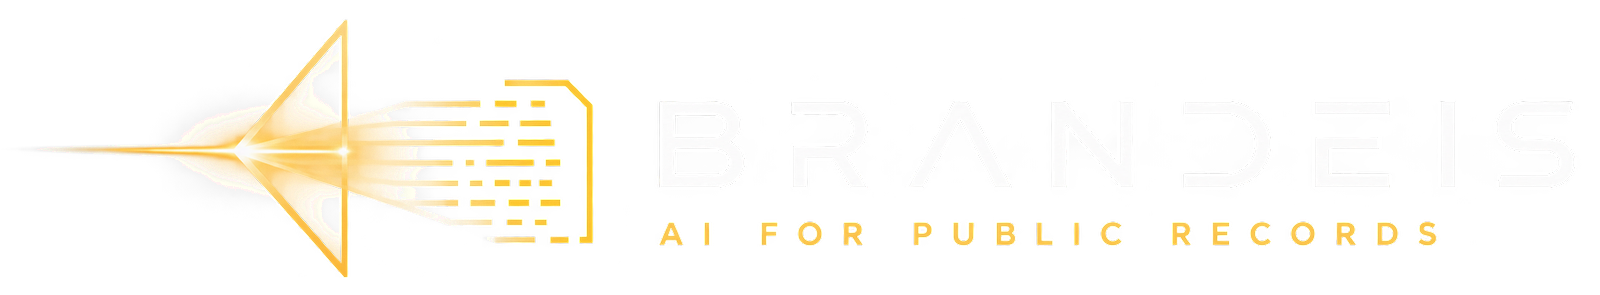
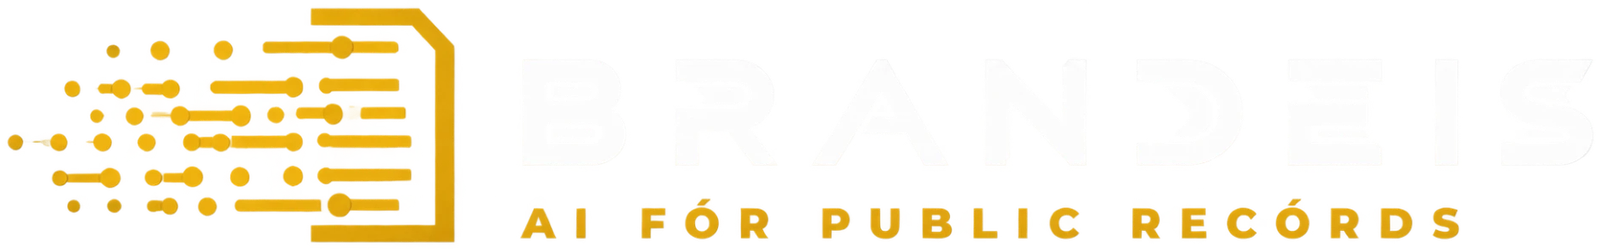
brand: adopt the owner's new lockup render (data-into-document mark)
Owner-supplied render replaces the prism drawing. Regenerated per the
public/brand/README.md recipe (updated in this commit): lockup-dark,
mark-dark/mark-light (shared 252x124 canvas; the all-gold art serves both
grounds, so the pair currently carries one image), icon.png (64px document
glyph crop, replacing the hand-drawn icon.svg — nothing hand-drawn
survives), apple-icon.png, opengraph-image.png. Left as old art on
purpose: the unreferenced light lockup and favicon.ico (README notes
both). Known issue flagged in README + HANDOFF: the render's tagline
carries stray accents ("FÓR", "RECÓRDS") — replace from a corrected
render when available.

Browser-verified: marketing nav light+dark, 390px mark collapse, signup.
848 tests, typecheck clean.

Claude-Session: https://claude.ai/code/session_01DonAa3sJ5xcCXDTn8ejryw

Changed region(s): [[0.0, 0.0281, 0.9375, 0.9839]]

diff --git a/src/app/_components/ui.tsx b/src/app/_components/ui.tsx
@@ -79,9 +79,9 @@ export function Seal({ size = 34, label }: { size?: number; label?: string }) {
  * directive). Two revisions swapped by the visitor's theme; both carry a
  * real alpha channel so they sit on any ground. Grounds that are dark in
  * BOTH themes (the marketing footer) pin the dark revision instead — swap
- * on the GROUND, not the theme. src/app/icon.svg is the one surviving
- * hand-drawn derivative (a favicon cannot ship a 170KB raster) and is
- * maintained separately.
+ * on the GROUND, not the theme. Even the favicon (src/app/icon.png) is a
+ * crop of the render now — nothing hand-drawn survives; see
+ * public/brand/README.md for the regeneration recipe.
  */
 export function BrandMarkRaster({
   alt = "",

diff --git a/public/brand/README.md b/public/brand/README.md
@@ -4,14 +4,21 @@ Four files, two jobs.
 
 ## Full lockups — hero use
 
-- `brandeis-lockup-dark.png` (1600×295) — white wordmark, gold tagline.
+- `brandeis-lockup-dark.png` (1600×248) — white wordmark, gold tagline.
+  **Rev 2026-08-13b**, cropped/downscaled from the owner's 2000×731
+  transparent render supplied in-session: gold data-dashes streaming into a
+  document sheet (the old prism-triangle drawing is retired). ⚠ The render's
+  tagline carries stray accents ("FÓR", "RECÓRDS") — flagged to the owner at
+  handoff; replace this file from a corrected render when one exists.
 - `brandeis-lockup-light.png` (1600×301) — navy wordmark, gold tagline.
+  **PREVIOUS drawing, currently UNREFERENCED by code** (the nav is pinned
+  dark, so every lockup placement renders the dark rev). Kept only so a
+  future light-ground placement fails loudly to the old art rather than
+  silently to nothing; regenerate it from a light-ground render of the NEW
+  drawing before using it anywhere.
 
-Both are cropped and downscaled from the owner's 4096px transparent PNG
-renders (2026-08-13). Unlike the first round of assets, these were rendered
-with a real alpha channel — no black plate to key off. They are still
-rasters: they do not scale past the source and cannot be recoloured, so they
-are used as images, not as the mark.
+They are rasters: they do not scale past the source and cannot be
+recoloured, so they are used as images, not as the mark.
 
 **Owner directive 2026-08-13: these renders ARE the logo, everywhere.** No
 re-typeset wordmark, no vector redraw. `<BrandLockup>` renders the full
@@ -25,14 +32,16 @@ visitor, pin the dark revision on grounds that are dark in both themes
 
 ## Marks — header use
 
-- `mark-dark.png`, `mark-light.png` — the prism cropped out of the lockup
-  renders above (everything left of the gap before the wordmark), fitted
-  inside a shared **252×124** canvas and centred.
+- `mark-dark.png`, `mark-light.png` — the mark (data-dashes + document
+  sheet) cropped out of the 2026-08-13b lockup render (everything left of
+  the gap before the wordmark), fitted inside a shared **252×124** canvas
+  and centred. The new drawing is ALL GOLD with no ground-specific ink, so
+  both files currently carry the SAME image — kept as two files because
+  `<BrandMarkRaster>`'s `<picture>` swap references both, and a future
+  render pair may diverge again.
 
 `<BrandMarkRaster>` swaps them with `<picture>` + `prefers-color-scheme`, and
-`<BrandLockup>` sets the type beside them. Each render has its glow baked
-into the pixels: the dark rev vanishes on the brand ground and reads as a
-dirty grey plate on paper, and the light rev's navy inverts that problem.
+`<BrandLockup>` sets the type beside them.
 
 To regenerate them from a new pair of renders, two steps are load-bearing:
 
@@ -55,9 +64,13 @@ both, onto the same canvas.
 The rasters, everywhere (owner directive 2026-08-13): `<BrandLockup>` for
 the full lockup, `<BrandMarkRaster>` for the mark alone. The hand-authored
 `<BrandMark>` SVG was REMOVED with that directive — do not redraw the mark
-in code. The one surviving hand-drawn derivative is `src/app/icon.svg` (a
-favicon cannot ship a 170KB raster); keep its colours in sync with the
-renders if they are ever regenerated.
+in code. With the 2026-08-13b render the last hand-drawn derivative
+(`src/app/icon.svg`, the old prism) was replaced by `src/app/icon.png` —
+a 64px crop of the render's document glyph, so even the favicon is the
+owner's pixels now. `apple-icon.png` (mark on the board's plum) and
+`opengraph-image.png` (lockup on dark paper) are composed from the same
+render; `favicon.ico` is still the OLD drawing (ico needs a tool sharp
+doesn't have) — regenerate it when convenient.
 
 To replace the rasters with a true vector, export with text converted to
 outlines and shapes as paths (Illustrator: Save As → SVG, *Preserve

diff --git a/HANDOFF.md b/HANDOFF.md
@@ -45,7 +45,31 @@ HANDOFF entry appended, and `docs/laptop-setup.md` updated in the same
 commit if anything owner-facing changed (env vars, keys, services) — that
 file is copy/paste-only by design; keep it that way.
 
-**NEWEST (2026-08-13, cloud session, latest): TOP-3 BUILDS (owner: "build
+**NEWEST (2026-08-13, cloud session, after the top-3 entry): NEW LOGO
+RENDER ADOPTED (owner supplied it in-chat: "replace the logo/header
+image, cropped as needed").** The drawing changed: gold data-dashes
+streaming into a document sheet — the prism triangle is retired. What
+happened and what to know:
+- The paste never touched the container's disk; the exact bytes were
+  recovered from the session transcript's base64 (2000×731 webp, real
+  alpha) — worth remembering next time an asset arrives by paste.
+- Regenerated from it with sharp, per public/brand/README.md (updated):
+  `brandeis-lockup-dark.png` (1600×248), `mark-{dark,light}.png` (shared
+  252×124 canvas; the new art is ALL GOLD so both files carry the same
+  image — kept as two because the `<picture>` swap references both),
+  `src/app/icon.png` (64px crop of the document glyph — REPLACES
+  icon.svg; nothing hand-drawn survives now), `apple-icon.png` (glyph on
+  the board's plum), `opengraph-image.png` (new lockup on dark paper).
+- Still OLD art, on purpose: `brandeis-lockup-light.png` (unreferenced —
+  nav is pinned dark; README says regenerate before any light-ground use)
+  and `favicon.ico` (ico needs a tool sharp lacks).
+- ⚠ FLAGGED TO OWNER: the render's tagline reads "AI FÓR PUBLIC RECÓRDS"
+  — stray accents baked into the artwork. Swap in a corrected render via
+  the README recipe when one exists.
+Browser-verified: marketing nav light+dark, 390px mark collapse, signup.
+848 tests, typecheck clean (no code paths changed beyond a comment).
+
+**PREVIOUS (2026-08-13, cloud session, latest): TOP-3 BUILDS (owner: "build
 the top 3") + HOMEPAGE REDESIGN (owner directive mid-session).** Four
 pieces, all browser-verified:
 - **Release-history import (the onboarding lever, build-candidate #2).**
